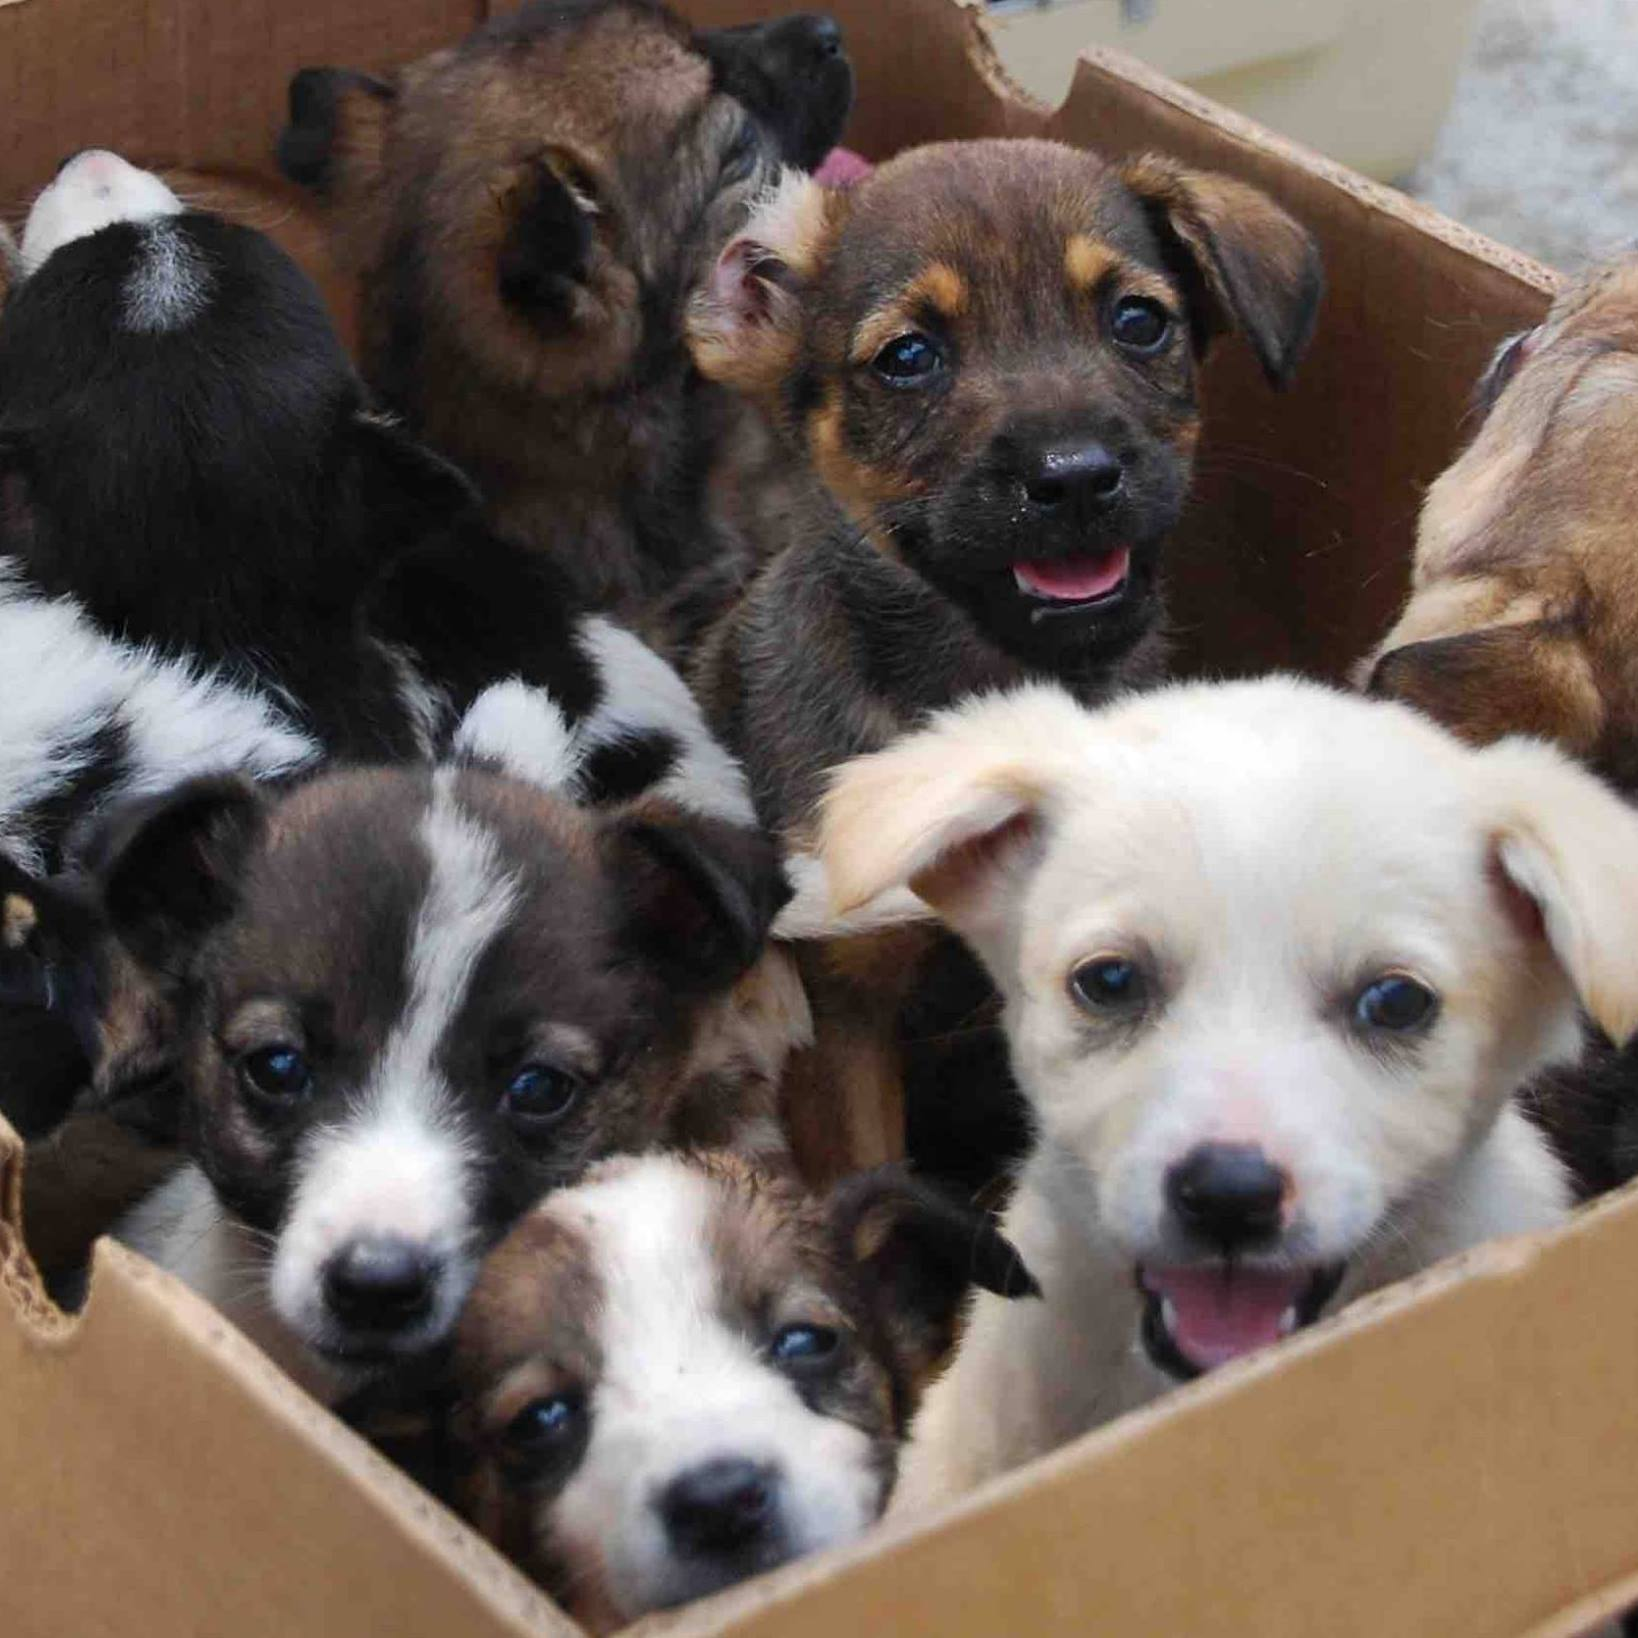
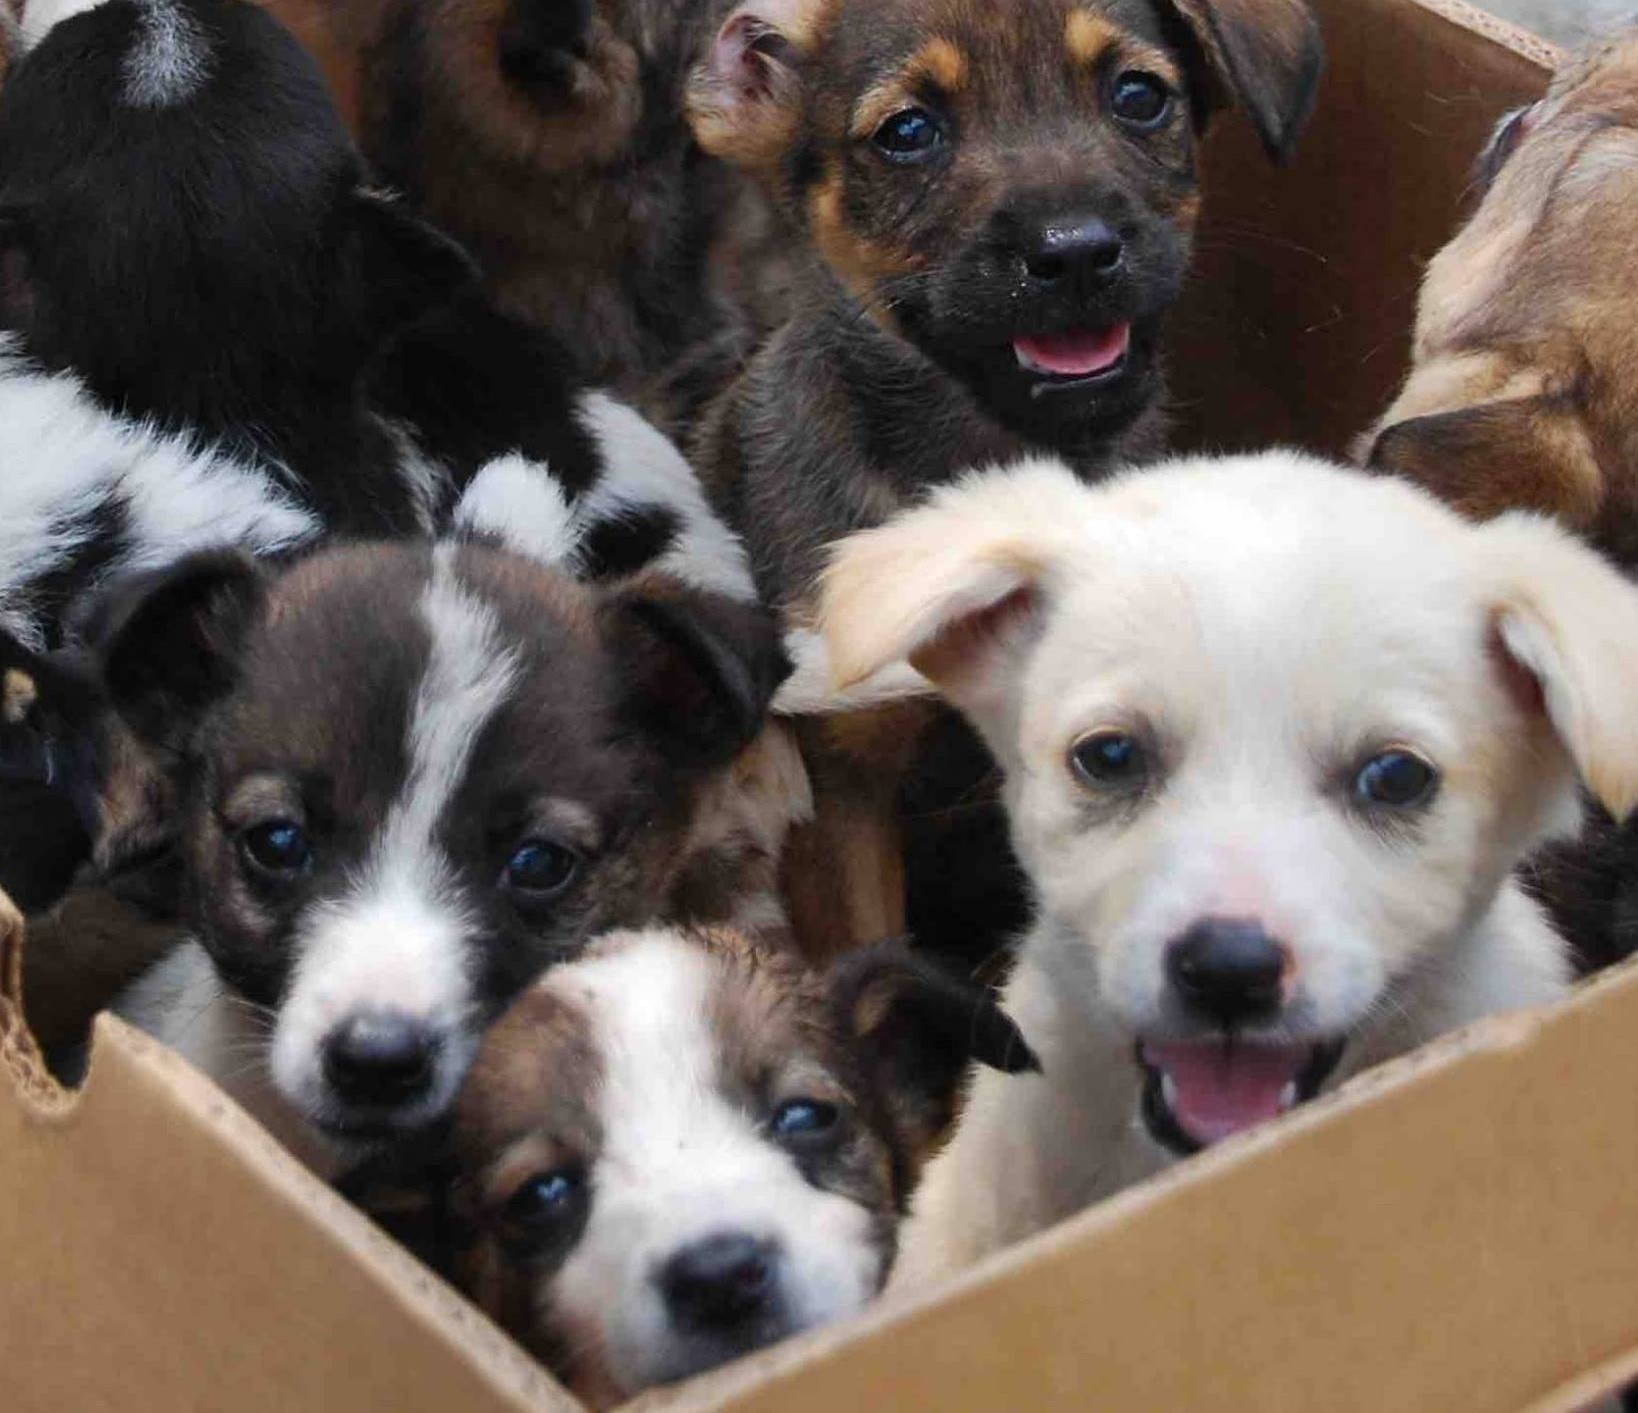
Добавен Animal Hope Varna

diff --git a/index.html b/index.html
@@ -1254,6 +1254,19 @@ const shelters = [
     donate: {
       iban: "", bic: "", bank: "", recipient: "", note: "", paypal: "", revolut: "", other: ""
     }
+  },
+  {
+    name: "Animal Hope Varna",
+    city: "Варна",
+    address: "гр. Варна",
+    lat: 43.2141, lng: 27.9147,
+    walkDays: [],
+    walkTime: "",
+    walkInfo: "Фондация Animal Hope Varna работи за защита и намиране на домове за бездомни животни във Варна. За повече информация посетете сайта им или се свържете директно.",
+    needs: [],
+    gallery: [],
+    phone: "", facebook: "https://www.facebook.com/animal.hope.varna/", website: "https://animalhope-varna.org/",
+    donate: null
   }
 ];
 // ============================================================

diff --git a/карта-приюти.html b/карта-приюти.html
@@ -1254,6 +1254,19 @@ const shelters = [
     donate: {
       iban: "", bic: "", bank: "", recipient: "", note: "", paypal: "", revolut: "", other: ""
     }
+  },
+  {
+    name: "Animal Hope Varna",
+    city: "Варна",
+    address: "гр. Варна",
+    lat: 43.2141, lng: 27.9147,
+    walkDays: [],
+    walkTime: "",
+    walkInfo: "Фондация Animal Hope Varna работи за защита и намиране на домове за бездомни животни във Варна. За повече информация посетете сайта им или се свържете директно.",
+    needs: [],
+    gallery: [],
+    phone: "", facebook: "https://www.facebook.com/animal.hope.varna/", website: "https://animalhope-varna.org/",
+    donate: null
   }
 ];
 // ============================================================